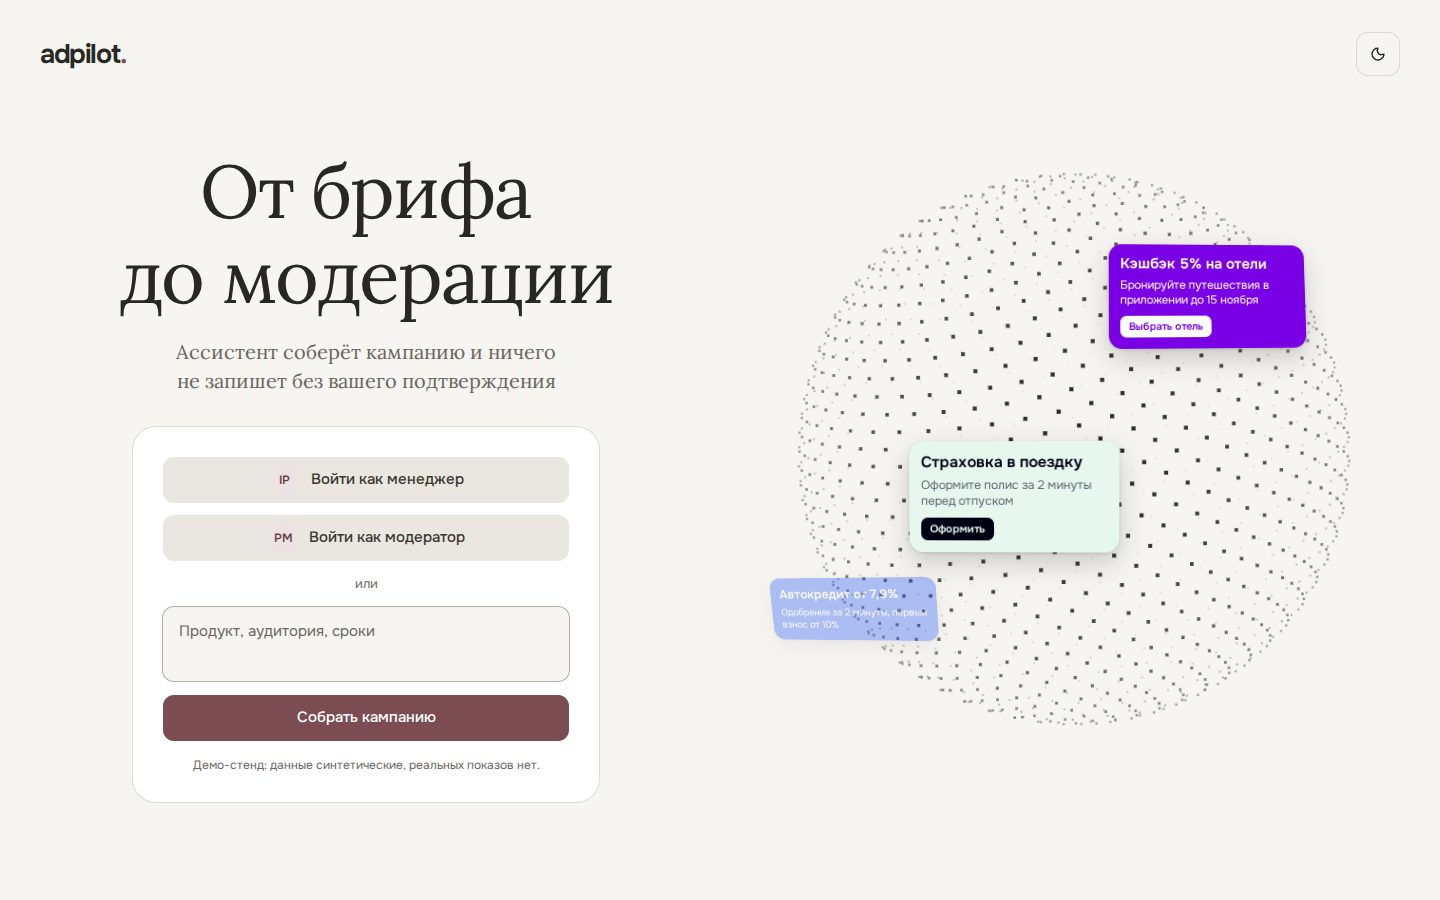
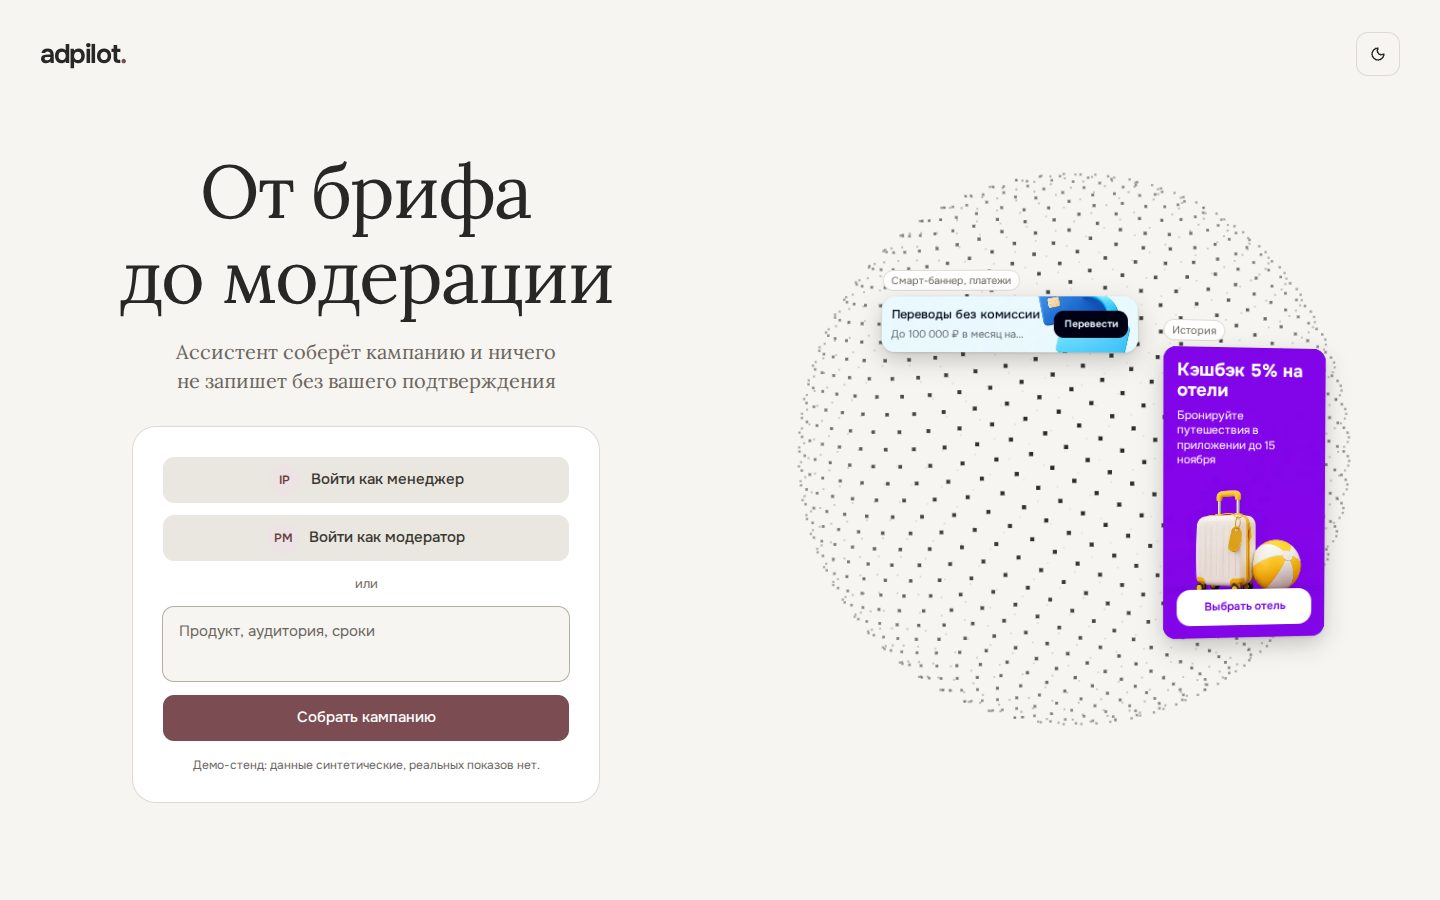
docs: record creative types on entry sphere

Changed region(s): [[0.5312, 0.2489, 0.9375, 0.7156]]

diff --git a/docs/DESIGN.md b/docs/DESIGN.md
@@ -46,7 +46,7 @@ colors:
 
 ## Вход
 
-Первый экран для нового посетителя: слева логотип, заголовок Onest и карточка, справа сфера из точек (Созвездие голосового режима) прямо на фоне страницы, в обеих темах: в светлой точки цвета текста панели, в тёмной светлые. К поверхности сферы прикреплены шесть примеров акций: тексты и цвета без изменений из выданных моков (`campaign_banners.json`), картинок нет, потому что их адреса в моках не открываются. Сзади сферы карточки гаснут. На ширине ≤900px от карточки остаётся название в одну строку. Формат взят с референса пользователя, цвета, шрифты и кнопки — из этой системы. Фото из первой версии заменено по просьбе пользователя. Реализация — `frontend/src/features/entry/`.
+Первый экран для нового посетителя: слева логотип, заголовок Onest и карточка, справа сфера из точек (Созвездие голосового режима) прямо на фоне страницы, в обеих темах: в светлой точки цвета текста панели, в тёмной светлые. К поверхности сферы прикреплены шесть примеров всех типов креативов: две истории, смарт-баннер на главной, в каталоге и в платежах, промо-экран. Их рисуют те же компоненты, что и превью в панели; над каждым подпись с типом. Тексты, размеры и цвета без изменений из выданных моков (`campaign_banners.json`, `campaign_contents.json`). Адреса картинок в моках не открываются, поэтому картинки в `frontend/public/entry` сгенерированы моделью из `IMAGE_MODEL` по правилам `prompts/design.md`. Сзади сферы карточки гаснут. На ширине ≤900px от карточки остаётся миниатюра с названием в одну строку. Формат взят с референса пользователя, цвета, шрифты и кнопки — из этой системы. Фото из первой версии заменено по просьбе пользователя. Реализация — `frontend/src/features/entry/`.
 
 Карточка содержит вход менеджером, вход модератором, «или», поле брифа и основную кнопку «Собрать кампанию»; кобальт выделяет основную кнопку. Бриф отправляется агенту от менеджера. Вход не аутентифицирует, а выбирает роль для заголовков запросов, поэтому внешних провайдеров и поля почты нет. Подпись карточки сообщает, что данные синтетические и показов нет. «Выйти» находится в меню пользователя.
 

diff --git a/docs/STATUS.md b/docs/STATUS.md
@@ -106,7 +106,9 @@ Production build и lint прошли (прежние предупреждени
 
 Фото затем заменено сферой из точек (Созвездие) в обеих темах. Повторно проверены те же шесть размеров, обе темы, отклик на ввод, reduced motion и отрисовка при отключённом WebGL: горизонтального переполнения и ошибок в консоли нет. Затем и голосовой режим перешёл на Созвездие в обеих темах: на 390×844 и 1440×900 проверены большая сфера и плашка (ответ агента подменён, WebGL отключён, новая сфера его не использует); состояния «думаю» и речь на новой светлой сфере глазами не смотрели. На настоящем телефоне частота кадров не замерялась.
 
-На сферу добавлены шесть примеров акций из `campaign_banners.json` (баннеры 205, 207, 210, 211, 214, 215). Кадры за оборот на 1440×900 и 390×844: видно 2–3 карточки, перекрытий нет. На 360×640 на отдельных кадрах заметно небольшое перекрытие (до 41 px² площади).
+На сферу добавлены шесть примеров всех типов креативов с картинками (баннеры 205, 207, 211, 214, 215 и промо-экран 307 из моков), их рисуют компоненты превью панели. Картинки сгенерированы отдельным скриптом моделью из `IMAGE_MODEL` по правилам `prompts/design.md`, а не прогоном агента. Кадры за оборот на 1366×768: видно 2–4 карточки, на части кадров они частично перекрывают друг друга, ближняя лежит сверху. На 390×844 и 360×640 видно по 2 названия, перекрытий нет.
+
+Остаток ключа OpenRouter на 1 ноября 02:45: $2,62 из лимита $8. При параллельной генерации сервис уже отвечал 402, потому что резервирует средства на все запросы сразу; последовательные запросы проходили.
 
 ## Анимации и прокрутка 31.10
 
